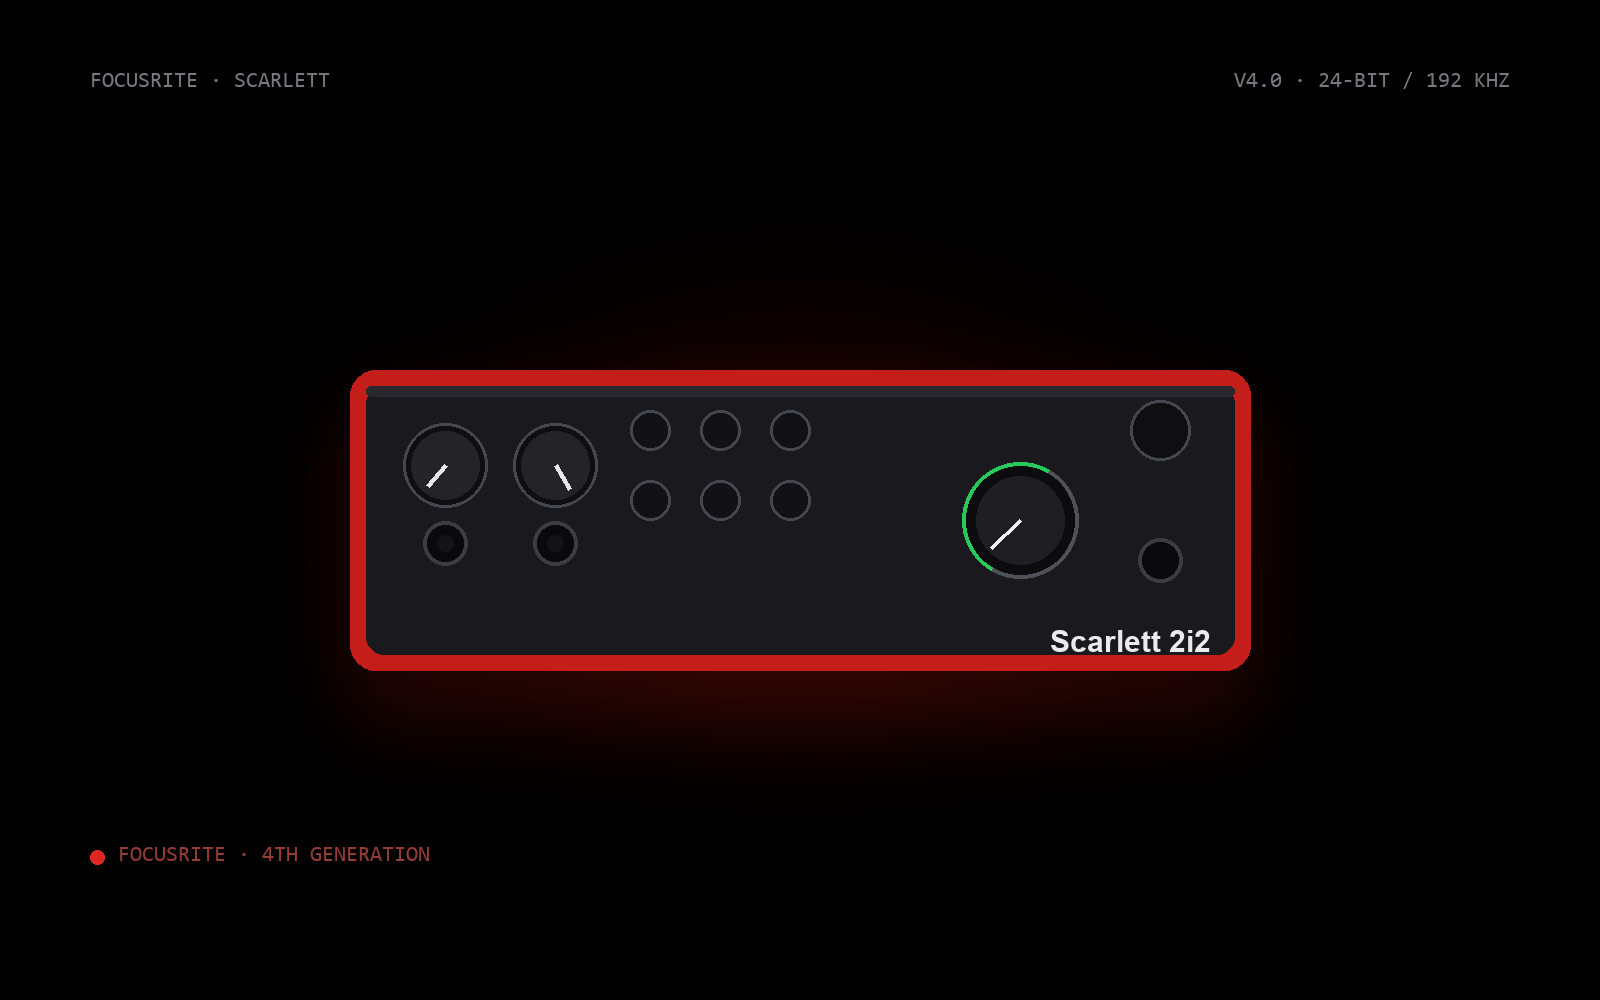
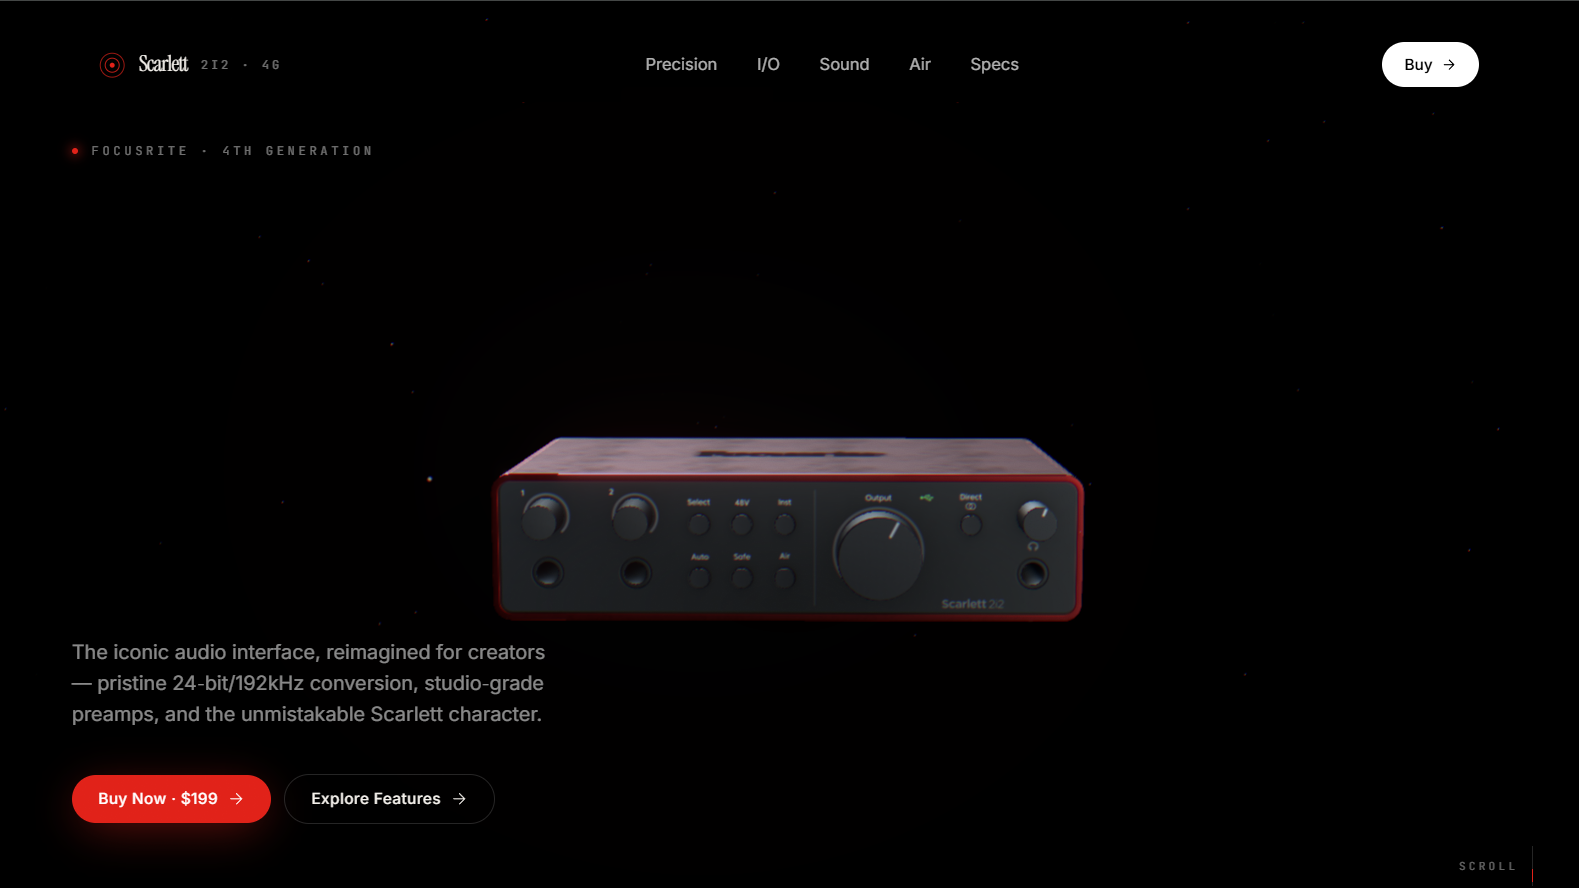
Scarlett card: use real landing-page screenshot, revert to uniform grid
- Replace generated thumbnail with an actual 16:9 capture of the live
  Scarlett 2i2 landing (hero with the rendered 3D interface)
- Remove the full-width spotlight treatment so the card follows the
  same grid pattern as the other works

diff --git a/src/components/sections/Works.module.css b/src/components/sections/Works.module.css
@@ -119,69 +119,6 @@
   /* all cards equal — no span 2 */
 }
 
-/* Lead / spotlight card — the strongest project, full width, cinematic */
-.cardLead {
-  grid-column: 1 / -1;
-  flex-direction: row;
-  align-items: stretch;
-}
-
-.cardLead::before {
-  content: 'FEATURED';
-  position: absolute;
-  top: var(--space-lg);
-  left: var(--space-lg);
-  z-index: 12;
-  font-family: var(--font-mono);
-  font-size: 10px;
-  letter-spacing: 0.25em;
-  font-weight: 700;
-  color: var(--color-bg);
-  background: var(--color-accent-amber);
-  padding: 5px 12px;
-  border-radius: var(--radius-full);
-  box-shadow: var(--glow-amber);
-}
-
-.cardLead .cardMedia {
-  flex: 1 1 60%;
-  aspect-ratio: auto;
-  min-height: 420px;
-}
-
-.cardLead .cardInfo {
-  flex: 1 1 40%;
-  justify-content: center;
-  padding: var(--space-3xl);
-  gap: var(--space-sm);
-}
-
-.cardLead .cardTitle {
-  font-size: var(--fs-2xl);
-}
-
-.cardLead .cardTagline {
-  font-size: var(--fs-base);
-  flex: 0;
-  margin-bottom: var(--space-lg);
-}
-
-@media (max-width: 968px) {
-  .cardLead {
-    flex-direction: column;
-  }
-
-  .cardLead .cardMedia {
-    flex: none;
-    aspect-ratio: 16/9;
-    min-height: 0;
-  }
-
-  .cardLead .cardInfo {
-    padding: var(--space-xl);
-  }
-}
-
 .card:hover {
   border-color: rgba(255, 255, 255, 0.15);
   box-shadow: 0 20px 40px rgba(0, 0, 0, 0.4);

diff --git a/src/components/sections/Works.tsx b/src/components/sections/Works.tsx
@@ -88,7 +88,7 @@ export default function Works() {
               key={`${project.slug}-${activeFilter}`} // Key includes filter to force re-mount if needed
               className={`${styles.card} ${styles.animate} ${
                 project.featured ? styles.cardFeatured : ''
-              } ${i === 0 && activeFilter === 'All' ? styles.cardLead : ''}`}
+              }`}
               style={{
                 transitionDelay: `${i * 0.05}s`,
                 '--project-color': project.color,